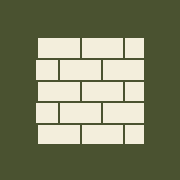
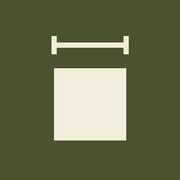
1.0.1

Changed region(s): [[0.1944, 0.1944, 0.8056, 0.8056]]

diff --git a/files/index.html b/files/index.html
@@ -5,7 +5,7 @@
 html{scroll-padding-top:env(safe-area-inset-top,0px)}
 [data-theme=dark]{--bg:#141710;--bg2:#1e2316;--fg:#ece7d2;--mut:#b4b090;--acc:#a8b574;--accf:#141710;--line:#2d3421}
 *{box-sizing:border-box;margin:0;padding:0;-webkit-tap-highlight-color:transparent}
-body{font:300 16px/1.5 'Outfit',system-ui,sans-serif;background:var(--bg);color:var(--fg);max-width:560px;margin:0 auto;min-height:100vh;padding:0 1rem 6rem}
+body{font:300 16px/1.5 'Outfit',system-ui,sans-serif;background:var(--bg);color:var(--fg);max-width:1000px;margin:0 auto;min-height:100vh;padding:0 1.2rem 3rem}
 button,input,select{font:inherit;color:inherit}
 header{position:sticky;top:env(safe-area-inset-top,0px);background:var(--bg);padding:.8rem 0 .3rem;z-index:5}
 .top{display:flex;justify-content:space-between;align-items:center;gap:.6rem}
@@ -13,17 +13,22 @@ h1{font-size:1.45rem;font-weight:600}h1 small{display:block;font-size:.8rem;font
 .mut,small{color:var(--mut)}
 .ib{background:none;border:1px solid var(--line);width:40px;height:40px;border-radius:50%;cursor:pointer;font-size:1.1rem;flex:none}
 .pill{display:block;width:100%;text-align:left;margin:.5rem 0;padding:.5rem .9rem;background:var(--bg2);border:1px solid var(--line);border-radius:10px;cursor:pointer}
-nav{position:fixed;bottom:0;left:50%;transform:translateX(-50%);width:100%;max-width:560px;display:flex;background:var(--bg2);border-top:1px solid var(--line);padding-bottom:env(safe-area-inset-bottom,0px)}
-nav button{flex:1;background:none;border:0;padding:1rem .3rem;cursor:pointer;color:var(--mut)}nav button.on{color:var(--acc);font-weight:600;box-shadow:inset 0 3px var(--acc)}
+#ov{position:fixed;inset:0;background:rgba(0,0,0,.4);opacity:0;pointer-events:none;transition:opacity .25s;z-index:9}
+#dr{position:fixed;top:0;bottom:0;left:0;width:min(280px,82vw);background:var(--bg);border-right:1px solid var(--line);transform:translateX(-100%);transition:transform .25s;z-index:10;padding:calc(1rem + env(safe-area-inset-top,0px)) 1rem 1rem}
+body.mo #ov{opacity:1;pointer-events:auto}body.mo #dr{transform:none}
+#dr button{display:block;width:100%;text-align:left;background:none;border:0;border-left:3px solid transparent;padding:.9rem 1rem;font-size:1.05rem;cursor:pointer}
+#dr button.on{border-left-color:var(--acc);background:var(--bg2);font-weight:500}
+.brand{display:flex;align-items:center;gap:.6rem;flex:1}.lg{width:34px;height:34px;flex:none}
+@media(prefers-reduced-motion:reduce){#ov,#dr{transition:none}}
 .chips{display:flex;gap:.5rem;overflow-x:auto;padding:.3rem 0 .8rem;scrollbar-width:none}
 .chips button{flex:none;padding:.5rem 1rem;border:1px solid var(--line);background:none;border-radius:99px;cursor:pointer}
 .chips button.on{background:var(--acc);color:var(--accf);border-color:var(--acc)}
 input,select{width:100%;padding:.75rem 1rem;background:var(--bg2);border:1px solid var(--line);border-radius:10px;margin:.3rem 0 .6rem}
-:focus-visible{outline:2px solid var(--acc);outline-offset:1.5px}
+:focus-visible{outline:2px solid var(--acc);outline-offset:2px}
 .card{display:block;width:100%;text-align:left;background:var(--bg2);border:0;border-left:4px solid var(--line);padding:1rem;margin-bottom:.7rem;cursor:pointer}
 .card.on{border-left-color:var(--acc)}.card b{display:block;font-weight:500;font-size:1.05rem}.card small{display:block}
 .btn{display:block;width:100%;padding:.95rem;margin-top:1rem;background:var(--acc);color:var(--accf);border:1px solid var(--acc);cursor:pointer;font-weight:500;border-radius:10px}.btn.ghost{background:none;color:var(--acc)}
-.fs{display:grid;grid-template-columns:1fr 1fr;gap:0 .8rem}.fs label{font-size:.88rem;color:var(--mut)}
+.fs{display:grid;grid-template-columns:1fr 1fr;gap:0 .8rem}@media(min-width:760px){.fs{grid-template-columns:repeat(3,1fr)}}.fs label{font-size:.88rem;color:var(--mut)}
 .res{background:var(--bg2);border-left:4px solid var(--acc);padding:.5rem 1rem;margin-top:.6rem}.res div{display:flex;justify-content:space-between;gap:1rem;padding:.35rem 0;border-bottom:1px solid var(--line)}.res div:last-child{border:0}
 .cc{border:1px solid var(--line);border-radius:10px;padding:.8rem 1rem;margin-bottom:.8rem}
 .ch{display:flex;justify-content:space-between;gap:.5rem}.ch b{font-weight:500}.ch small{display:block}
@@ -33,10 +38,10 @@ input,select{width:100%;padding:.75rem 1rem;background:var(--bg2);border:1px sol
 .sum{background:var(--bg2);border-left:4px solid var(--acc);padding:.6rem 1rem;margin:.6rem 0}.sum div{display:flex;justify-content:space-between;padding:.25rem 0}
 .tot{font-size:1.3rem;font-weight:500;border-top:1px solid var(--line);margin-top:.3rem;padding-top:.5rem!important}
 .nm{font-size:1.3rem;font-weight:500}
-#toast{position:fixed;bottom:5rem;left:50%;transform:translateX(-50%);background:var(--acc);color:var(--accf);padding:.7rem 1.2rem;border-radius:99px;opacity:0;transition:opacity .3s;pointer-events:none;white-space:nowrap}
+#toast{position:fixed;bottom:2rem;left:50%;transform:translateX(-50%);background:var(--acc);color:var(--accf);padding:.7rem 1.2rem;border-radius:99px;opacity:0;transition:opacity .3s;pointer-events:none;white-space:nowrap}
 </style></head><body>
-<header><div class="top"><h1>MetraObra<small>Cómputos de obra</small></h1><button class="ib" id="th" aria-label="Cambiar modo claro u oscuro">◐</button></div><button class="pill" id="pj"></button></header>
-<main id="m"></main><nav id="nv"></nav><div id="toast"></div>
+<header><div class="top"><button class="ib" id="mb" aria-label="Abrir menú"><svg width="20" height="20" viewBox="0 0 20 20" fill="none" stroke="currentColor" stroke-width="1.8" stroke-linecap="round"><path d="M3 5h14M3 10h14M3 15h14"/></svg></button><div class="brand"><svg class="lg" viewBox="0 0 100 100" aria-hidden="true"><rect width="100" height="100" rx="22" fill="var(--acc)"/><path d="M30 20v10M70 20v10M30 25h40" stroke="var(--accf)" stroke-width="3" fill="none"/><rect x="30" y="38" width="40" height="40" fill="var(--accf)"/></svg><h1>MetraObra<small id="st">Cómputos de obra</small></h1></div><button class="ib" id="th" aria-label="Cambiar modo claro u oscuro">◐</button></div><button class="pill" id="pj"></button></header>
+<main id="m"></main><div id="ov"></div><aside id="dr"></aside><div id="toast"></div>
 <script>
 const $=s=>document.querySelector(s),E=s=>String(s).replace(/[&<>"]/g,c=>({'&':'&amp;','<':'&lt;','>':'&gt;','"':'&quot;'}[c]));
 const get=k=>{try{return localStorage.getItem(k)}catch(e){return null}},set=(k,x)=>{try{localStorage.setItem(k,x)}catch(e){}};
@@ -45,7 +50,9 @@ const theme=()=>{document.documentElement.dataset.theme=dk?'dark':'light';set('m
 const F=x=>(+x||0).toLocaleString('es-VE',{maximumFractionDigits:2}),D=t=>new Date(t).toLocaleString('es-VE',{dateStyle:'short',timeStyle:'short'});
 const uid=()=>Date.now().toString(36)+Math.random().toString(36).slice(2,6);
 /* Valores referenciales: ajústalos a tu diseño de mezcla y a tus proveedores. */
-const MIX={140:[7.01,.56,.55,.184],175:[8.43,.54,.55,.185],210:[9.73,.52,.53,.186],250:[11.5,.5,.51,.19]}; // sacos 42,5 kg, arena m³, piedra m³, agua m³ por m³
+const V=b=>typeof b=='string'?E(b):F(b),SACO=42.5;
+const PIE={'Zapata':'1"','Pedestal':'3/4"','Solado / mampostería de fundación':'1"','Viga de riostra':'3/4"','Losa de fundación':'1"','Columna':'3/4"','Viga aérea':'3/4"','Losa maciza':'3/4"','Losa nervada (espesor equivalente)':'1/2"'}; // tamaño de piedra recomendado en obra
+const MIX={210:[9.73,.52,.53,.186],250:[11.5,.5,.51,.19],280:[12.6,.48,.5,.192],350:[14.6,.45,.48,.196]}; // sacos 42,5 kg, arena m³, piedra m³, agua m³ por m³
 const REB={'3/8':9.5,'1/2':12.7,'5/8':15.9,'3/4':19.1,'1':25.4};
 const EL={'Zapata':'Infraestructura','Pedestal':'Infraestructura','Solado / mampostería de fundación':'Infraestructura','Viga de riostra':'Infraestructura','Losa de fundación':'Infraestructura','Columna':'Estructura','Viga aérea':'Estructura','Losa maciza':'Estructura','Losa nervada (espesor equivalente)':'Estructura'};
 const Q={'Zapata':70,'Pedestal':120,'Solado / mampostería de fundación':0,'Viga de riostra':100,'Losa de fundación':80,'Columna':140,'Viga aérea':120,'Losa maciza':90,'Losa nervada (espesor equivalente)':70}; // kg de acero por m³ de concreto
@@ -54,12 +61,12 @@ const SUP={'Concreto gris virgen o poroso':.25,'Friso nuevo':.2,'Pared pintada e
 const PIN={'Caucho':30,'Aceite':35,'Epóxica':25,'Asfáltica':20}; // m² por galón y por mano
 const els=Object.keys(EL);
 const C=[
-{n:'Concreto',nota:'Zapatas, columnas, vigas y losas: dimensiones de una pieza y su cantidad. Suma el desperdicio en sitio.',
- f:[['e','Elemento',els,'Columna'],['L','Largo','m',.3],['A','Ancho','m',.3],['H','Alto o espesor','m',3],['n','Cantidad','und',4],['fc','f\'c (kg/cm²)',[140,175,210,250],210],['t','Tipo de concreto',['Hecho en obra','Premezclado'],'Hecho en obra'],['w','Desperdicio','%',5]],
- r:v=>{const net=v.L*v.A*v.H*v.n,m=net*(1+v.w/100),t=MIX[v.fc],ob=v.t=='Hecho en obra',s=`${v.e} f'c ${v.fc}: ${v.L}×${v.A}×${v.H} m × ${v.n}`;
-  const rows=[['Volumen neto',net,'m³'],['Volumen con desperdicio',m,'m³']];
-  if(ob)rows.push(['Cemento',m*t[0],'sacos'],['Arena',m*t[1],'m³'],['Piedra',m*t[2],'m³'],['Agua',m*t[3]*1000,'L']);
-  return{g:EL[v.e],src:s,rows,add:ob?[{d:'Cemento (concreto)',u:'sacos',q:m*t[0]},{d:'Arena (concreto)',u:'m³',q:m*t[1]},{d:'Piedra (concreto)',u:'m³',q:m*t[2]}]:[{d:`Concreto premezclado f'c ${v.fc}`,u:'m³',q:m}]}}},
+{n:'Concreto',nota:'Dimensiones de una pieza y su cantidad. La piedra recomendada depende del elemento. Criterio general de las normas de concreto: el tamaño máximo no debe pasar de 1/5 de la menor dimensión del elemento, 1/3 del espesor de las losas ni 3/4 de la separación libre entre barras. Confírmalo con COVENIN 1753 y tu ingeniero.',
+ f:[['e','Elemento',els,'Columna'],['L','Largo','m',.3],['A','Ancho','m',.3],['H','Alto o espesor','m',3],['n','Cantidad','und',4],['fc','f\'c (kg/cm²)',[210,250,280,350],210],['pi','Piedra picada',['Recomendada','1/2"','3/4"','1"','1 1/2"','2"'],'Recomendada'],['t','Tipo de concreto',['Hecho en obra','Premezclado'],'Hecho en obra'],['w','Desperdicio','%',5]],
+ r:v=>{const net=v.L*v.A*v.H*v.n,m=net*(1+v.w/100),t=MIX[v.fc],ob=v.t=='Hecho en obra',rec=PIE[v.e],pz=v.pi=='Recomendada'?rec:v.pi,k=m*t[0],s=`${v.e} f'c ${v.fc}: ${v.L}×${v.A}×${v.H} m × ${v.n}`;
+  const rows=[['Volumen neto',net,'m³'],['Volumen con desperdicio',m,'m³'],['Piedra recomendada para '+v.e.toLowerCase(),rec,'']];
+  if(ob)rows.push([`Cemento (saco de ${F(SACO)} kg)`,k,'sacos'],['Peso del cemento',k*SACO,'kg'],['Arena',m*t[1],'m³'],[`Piedra picada (${pz})`,m*t[2],'m³'],['Agua',m*t[3]*1000,'L']);
+  return{g:EL[v.e],src:s+(ob?`, piedra ${pz}`:''),rows,add:ob?[{d:`Cemento (saco de ${F(SACO)} kg)`,u:'sacos',q:k},{d:'Arena (concreto)',u:'m³',q:m*t[1]},{d:`Piedra picada ${pz} (concreto)`,u:'m³',q:m*t[2]}]:[{d:`Concreto premezclado f'c ${v.fc}`,u:'m³',q:m}]}}},
 {n:'Encofrado',nota:'Área de contacto = perímetro expuesto × altura. Considera los usos de la madera y los clavos.',
  f:[['e','Elemento',els,'Columna'],['L','Largo','m',.3],['A','Ancho','m',.3],['H','Altura','m',3],['n','Cantidad','und',4],['u','Usos de la madera','',3]],
  r:v=>{const ac=2*(v.L+v.A)*v.H*v.n,mad=v.u?ac/v.u:ac,cl=ac*.15;
@@ -71,11 +78,11 @@ const C=[
 {n:'Bloques',nota:'Paredes de bloque con descuento de vanos, juntas de pega y 5% de rotura.',
  f:[['A','Área del muro','m²',30],['V','Vanos (puertas y ventanas)','m²',4],['es','Espesor del bloque (cm)',[10,15,20],15],['bl','Largo real (cm)','',39],['bh','Alto real (cm)','',19],['j','Junta','cm',1],['w','Rotura y corte','%',5]],
  r:v=>{const a=Math.max(v.A-v.V,0),pm=1/(((+v.bl+v.j)/100)*((+v.bh+v.j)/100)),b=Math.ceil(a*pm*(1+v.w/100)),mo=a*(v.es/100)*(1-pm*(v.bl/100)*(v.bh/100))*(1+v.w/100),m=MOR['1:4'];
-  return{g:'Mampostería',src:`Muro de bloque de ${v.es} cm, ${F(a)} m² netos`,rows:[['Área neta',a,'m²'],['Bloques por m²',pm,'und'],['Bloques totales',b,'und'],['Mortero de pega (1:4)',mo,'m³'],['Cemento',mo*m[0],'sacos'],['Arena',mo*m[1],'m³']],add:[{d:`Bloques de ${v.es} cm`,u:'und',q:b},{d:'Cemento (pega)',u:'sacos',q:mo*m[0]},{d:'Arena (pega)',u:'m³',q:mo*m[1]}]}}},
+  return{g:'Mampostería',src:`Muro de bloque de ${v.es} cm, ${F(a)} m² netos`,rows:[['Área neta',a,'m²'],['Bloques por m²',pm,'und'],['Bloques totales',b,'und'],['Mortero de pega (1:4)',mo,'m³'],['Cemento (saco de 42,5 kg)',mo*m[0],'sacos'],['Arena',mo*m[1],'m³']],add:[{d:`Bloques de ${v.es} cm`,u:'und',q:b},{d:'Cemento (pega, saco de 42,5 kg)',u:'sacos',q:mo*m[0]},{d:'Arena (pega)',u:'m³',q:mo*m[1]}]}}},
 {n:'Friso',nota:'Pañete interno o externo y morteros de nivelación. Suma 10–15% por rebote.',
  f:[['t','Aplicación',['Friso interno','Friso externo','Mortero de nivelación de piso'],'Friso interno'],['A','Área','m²',50],['e','Espesor','cm',2],['p','Mortero cemento:arena',Object.keys(MOR),'1:4'],['w','Rebote y mermas','%',12]],
  r:v=>{const m=v.A*v.e/100*(1+v.w/100),t=MOR[v.p];
-  return{g:'Revestimientos',src:`${v.t} ${v.p}: ${F(v.A)} m² × ${v.e} cm`,rows:[['Mortero',m,'m³'],['Cemento',m*t[0],'sacos'],['Arena',m*t[1],'m³']],add:[{d:`Cemento (${v.t.toLowerCase()})`,u:'sacos',q:m*t[0]},{d:`Arena (${v.t.toLowerCase()})`,u:'m³',q:m*t[1]}]}}},
+  return{g:'Revestimientos',src:`${v.t} ${v.p}: ${F(v.A)} m² × ${v.e} cm`,rows:[['Mortero',m,'m³'],['Cemento (saco de 42,5 kg)',m*t[0],'sacos'],['Arena',m*t[1],'m³']],add:[{d:`Cemento (${v.t.toLowerCase()}, saco de 42,5 kg)`,u:'sacos',q:m*t[0]},{d:`Arena (${v.t.toLowerCase()})`,u:'m³',q:m*t[1]}]}}},
 {n:'Impermeabilización',nota:'Manto asfáltico con solapes de 10–12% e imprimación asfáltica (primer).',
  f:[['A','Área (techo, losa o terraza)','m²',60],['s','Solapes','%',11],['ro','Área por rollo','m²',10],['r','Rendimiento del primer','m²/L',5]],
  r:v=>{const a=v.A*(1+v.s/100),l=v.r?v.A/v.r:0;
@@ -94,8 +101,11 @@ const conf=(b,fn)=>{const t=b.textContent;b.onclick=()=>{if(b.dataset.s){fn();re
 function go(v){view=v;render()}
 function render(){
   const p=proj();$('#pj').innerHTML=p?`Proyecto: <b>${E(p.name)}</b>`:'Sin proyecto activo · toca para crear uno';$('#pj').onclick=()=>go('p');
-  $('#nv').innerHTML=[['p','Proyectos'],['c','Calcular'],['h','Historial']].map(([k,n])=>`<button data-v="${k}" class="${k==view?'on':''}">${n}</button>`).join('');
-  document.querySelectorAll('#nv button').forEach(b=>b.onclick=()=>go(b.dataset.v));
+  const S=[['p','Proyectos'],['c','Calcular'],['h','Historial']];
+  $('#dr').innerHTML='<small class="mut" style="display:block;padding:.4rem 1rem 1rem">Menú</small>'+S.map(([k,n])=>`<button data-v="${k}" class="${k==view?'on':''}">${n}</button>`).join('');
+  document.querySelectorAll('#dr button').forEach(b=>b.onclick=()=>{document.body.classList.remove('mo');go(b.dataset.v)});
+  $('#mb').onclick=()=>document.body.classList.add('mo');$('#ov').onclick=()=>document.body.classList.remove('mo');
+  $('#st').textContent=S.find(s=>s[0]==view)[1];
   view=='p'?projects():view=='c'?calc():hist();scrollTo(0,0);
 }
 function newProj(name){const p={id:uid(),name:name||'Mi proyecto',t:Date.now(),calcs:[]};P.unshift(p);A=p.id;save();return p}
@@ -108,7 +118,7 @@ function calc(){
   const c=C[cur];
   $('#m').innerHTML=`<div class="chips">${C.map((x,i)=>`<button class="${i==cur?'on':''}" data-i="${i}">${x.n}</button>`).join('')}</div><h2>${c.n}</h2><p class="mut">${c.nota}</p><div class="fs" style="margin-top:.8rem">${c.f.map(([k,l,u,d])=>Array.isArray(u)?`<label>${l}<select id="f_${k}">${u.map(o=>`<option${o==d?' selected':''}>${E(o)}</option>`).join('')}</select></label>`:`<label>${l}${u?` (${u})`:''}<input id="f_${k}" inputmode="decimal" value="${d}"></label>`).join('')}</div><div class="res" id="rs"></div><button class="btn" id="ad">Guardar en el proyecto</button>`;
   document.querySelectorAll('.chips button').forEach(b=>b.onclick=()=>{cur=+b.dataset.i;calc();scrollTo(0,0)});
-  const run=()=>{const v={};c.f.forEach(([k])=>{const e=$('#f_'+k);v[k]=e.tagName=='SELECT'?e.value:(+String(e.value).replace(',','.')||0)});const r=c.r(v);$('#rs').innerHTML=r.rows.map(([a,b,u])=>`<div><span>${a}</span><b>${F(b)} ${u}</b></div>`).join('');return r};
+  const run=()=>{const v={};c.f.forEach(([k])=>{const e=$('#f_'+k);v[k]=e.tagName=='SELECT'?e.value:(+String(e.value).replace(',','.')||0)});const r=c.r(v);$('#rs').innerHTML=r.rows.map(([a,b,u])=>`<div><span>${a}</span><b>${V(b)} ${u}</b></div>`).join('');return r};
   document.querySelectorAll('.fs input,.fs select').forEach(e=>e.oninput=run);run();
   $('#ad').onclick=()=>{const r=run();let p=proj()||newProj('');p.calcs.unshift({id:uid(),t:Date.now(),mod:c.n,src:r.src,g:r.g,rows:r.rows,add:r.add.map(a=>({...a,p:0}))});save();render();toast('Guardado en '+p.name)};
 }
@@ -120,7 +130,7 @@ function hist(){
   const p=proj();
   if(!p){$('#m').innerHTML='<h2>Historial</h2><p class="mut">Elige o crea un proyecto para ver sus cálculos.</p><button class="btn" id="go">Ir a proyectos</button>';$('#go').onclick=()=>go('p');return}
   $('#m').innerHTML=`<input class="nm" id="rn" value="${E(p.name)}" aria-label="Nombre del proyecto"><small>Creado ${D(p.t)} · ${p.calcs.length} cálculos</small><h3>Costo por categoría</h3><div class="sum" id="sm">${sumHtml(p)}</div><h3>Historial de cálculos</h3>`+
-  (p.calcs.length?p.calcs.map(c=>`<div class="cc"><div class="ch"><div><b>${c.mod} · ${E(c.g)}</b><small>${E(c.src)}</small><small>${D(c.t)}</small></div><button class="x" data-d="${c.id}" aria-label="Quitar cálculo">×</button></div><div class="mini">${c.rows.map(([a,b,u])=>`<div style="display:flex;justify-content:space-between"><span>${a}</span><span>${F(b)} ${u}</span></div>`).join('')}</div>${c.add.map((a,i)=>`<div class="it"><div><b style="font-weight:500">${E(a.d)}</b><small>${F(a.q)} ${a.u}</small></div><input inputmode="decimal" placeholder="Precio unit." data-c="${c.id}" data-a="${i}" value="${a.p||''}"></div>`).join('')}</div>`).join(''):'<p class="mut">Sin cálculos todavía. Ve a «Calcular» y guarda el primero.</p>')+
+  (p.calcs.length?p.calcs.map(c=>`<div class="cc"><div class="ch"><div><b>${c.mod} · ${E(c.g)}</b><small>${E(c.src)}</small><small>${D(c.t)}</small></div><button class="x" data-d="${c.id}" aria-label="Quitar cálculo">×</button></div><div class="mini">${c.rows.map(([a,b,u])=>`<div style="display:flex;justify-content:space-between"><span>${a}</span><span>${V(b)} ${u}</span></div>`).join('')}</div>${c.add.map((a,i)=>`<div class="it"><div><b style="font-weight:500">${E(a.d)}</b><small>${F(a.q)} ${a.u}</small></div><input inputmode="decimal" placeholder="Precio unit." data-c="${c.id}" data-a="${i}" value="${a.p||''}"></div>`).join('')}</div>`).join(''):'<p class="mut">Sin cálculos todavía. Ve a «Calcular» y guarda el primero.</p>')+
   `<button class="btn" id="cp">Copiar resumen</button><button class="btn ghost" id="dp">Eliminar proyecto</button>`;
   $('#rn').oninput=e=>{p.name=e.target.value||'Sin nombre';save();$('#pj').innerHTML=`Proyecto: <b>${E(p.name)}</b>`};
   document.querySelectorAll('.it input').forEach(e=>e.oninput=()=>{p.calcs.find(c=>c.id==e.dataset.c).add[+e.dataset.a].p=+String(e.value).replace(',','.')||0;save();$('#sm').innerHTML=sumHtml(p)});

diff --git a/files/sw.js b/files/sw.js
@@ -1,4 +1,4 @@
-const V='metraobra-v1',FILES=['./','./index.html','./manifest.json','./icon-192.png','./icon-512.png','./apple-touch-icon.png'];
+const V='metraobra-v2',FILES=['./','./index.html','./manifest.json','./icon-192.png','./icon-512.png','./apple-touch-icon.png'];
 self.addEventListener('install',e=>{e.waitUntil(caches.open(V).then(c=>c.addAll(FILES)).then(()=>self.skipWaiting()))});
 self.addEventListener('activate',e=>{e.waitUntil(caches.keys().then(k=>Promise.all(k.filter(x=>x!==V).map(x=>caches.delete(x)))).then(()=>self.clients.claim()))});
 self.addEventListener('fetch',e=>{
